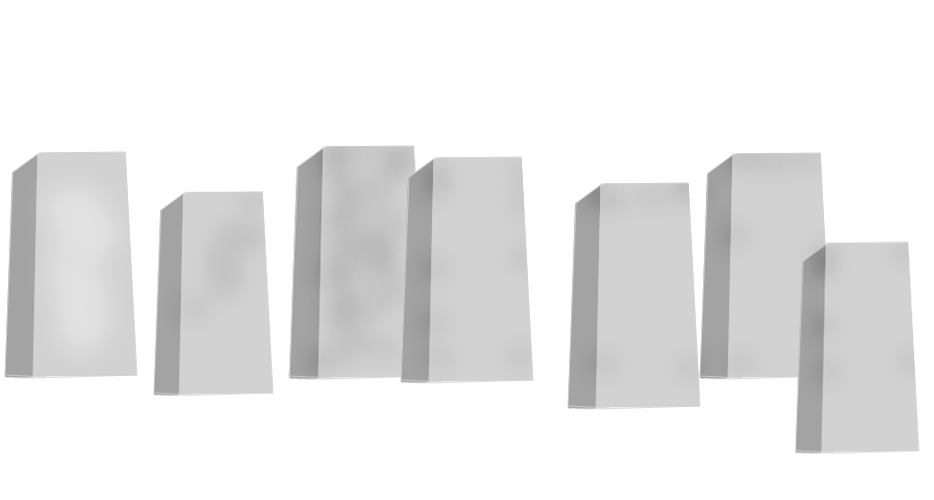
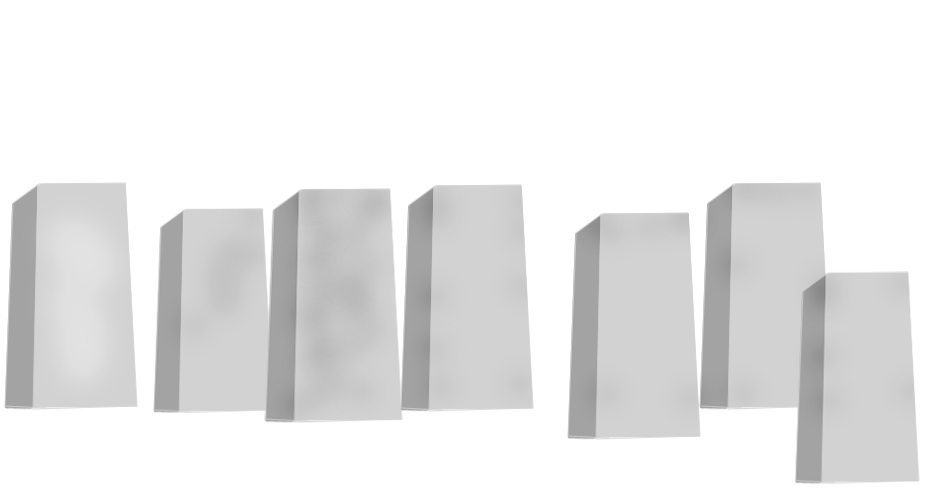
More background, particle system started

diff --git a/src/scenes/Play.js b/src/scenes/Play.js
@@ -1,6 +1,5 @@
 class Play extends Phaser.Scene{
 
-
     constructor() {
         super("playScene");
     }
@@ -14,9 +13,13 @@ class Play extends Phaser.Scene{
         this.load.image('rocket', './assets/redHeartInverted.png');
         // this.load.image('spaceship', './assets/spaceship.png');
         this.load.image('spaceship', './assets/flying-miku32.png');
-        this.load.image('starfield', './assets/sidewalk.png');
+        this.load.image('sidewalk', './assets/sidewalk.png');
         this.load.image('buildings', './assets/buildings.png');
+        this.load.image('hills', './assets/hills.png');
         this.load.image('sky', './assets/sky.png');
+        this.load.image('nightSky', './assets/starfield.png');
+        this.load.image('cross', './assets/white_cross.png');
+        this.load.image('circle', './assets/circle-8x8.png');
 
     // load spritesheet
         this.load.spritesheet('explosion', './assets/love.png', {frameWidth: 64, frameHeight: 32, startFrame: 0, endFrame: 9});
@@ -24,17 +27,34 @@ class Play extends Phaser.Scene{
 
     create(){
 
+        this.timeline = this.tweens.createTimeline();
+
+        // timeline.add({
+        //     targets: circle,
+        //     x: 600,
+        //     ease: 'Power1',
+        //     duration: 3000
+        // });
+
+        this.timeline.play();
+
+        console.log(this.timeline);
+
+        // flight paths
         this.top = 100; // original 132
         this.middle = 196;
         this.bottom = 260;
 
         // this.add.text(20, 20, "Rocket Patrol Play"); // for testing
         // place tile sprite on background
+
+        this.nightSky = this.add.tileSprite(0, 0, 934, 500, 'nightSky').setOrigin(0, 0);
         this.sky = this.add.tileSprite(0, 0, 934, 500, 'sky').setOrigin(0, 0);
+        this.hills = this.add.tileSprite(0, 0, 934, 500, 'hills').setOrigin(0, 0);
         this.buildings = this.add.tileSprite(0, 0, 934, 500, 'buildings').setOrigin(0, 0);
-        this.starfield = this.add.tileSprite(0, 0, 934, 500, 'starfield').setOrigin(0, 0);
+        this.sidewalk = this.add.tileSprite(0, 0, 934, 500, 'sidewalk').setOrigin(0, 0);
 
-
+        this.nightSky.alpha = 0;
 
 
         // this.starfield2 = this.add.tileSprite(0, 0, 640, 480, 'starfield').setOrigin(0, 0);
@@ -61,6 +81,30 @@ class Play extends Phaser.Scene{
             frames: this.anims.generateFrameNumbers('explosion', {start: 0, end: 9, first: 0}),
             frameRate: 30
         });
+
+        // Particle System
+        // got some of this from this video by Mitchell Hudson on YouTube
+        // https://youtu.be/JSrafZXuehQ
+
+        this.particles = this.add.particles('circle');
+
+        console.log(this.particles);
+        // console.log(this.);
+
+        this.particles.createEmitter({
+            // frame: 'yellow_ball',
+            speed: 100,
+            gravity: { x: 0, y: 200 },
+            scale: { start: 0.1, end: 1 },
+            tint: [0x008080, 0x008B8B, 0x00FFFF, 0xff0000],
+            // emitZone: {type: 'random', source: this.ship01, quantity: 150},
+            follow: this.ship01,
+            // follow: this.ship02,
+        });
+
+
+
+
 
         // define control keys
         keyL = this.input.keyboard.addKey(Phaser.Input.Keyboard.KeyCodes.L);
@@ -93,7 +137,7 @@ class Play extends Phaser.Scene{
         scoreConfig.fixedWidth = 0;
         this.clock = this.time.delayedCall(game.settings.gameTimer, () => {
             this.add.text(game.config.width/2, game.config.height/2, 'GAME OVER', scoreConfig).setOrigin(0.5);
-            this.add.text(game.config.width/2, game.config.height/2 + 64, '(L)ove to Restart', scoreConfig).setOrigin(0.5);
+            this.add.text(game.config.width/2, game.config.height/2 + 64, '(L)ove to Restart or ← for Menu', scoreConfig).setOrigin(0.5);
             this.gameOver = true;
         }, null, this);
 
@@ -102,12 +146,21 @@ class Play extends Phaser.Scene{
     update(){ // ideally every frame
         // check key input for restart, keyUP for one handed play
         if (this.gameOver && (Phaser.Input.Keyboard.JustDown(keyL) || Phaser.Input.Keyboard.JustDown(keyUP))){
+            this.scene.restart(this.p1Score);
+        }
+        if (this.gameOver && Phaser.Input.Keyboard.JustDown(keyLEFT)){
             this.scene.start("menuScene");
         }
+
+
         // console.log(this.time.now);
-        this.starfield.tilePositionX -= 4;
+        this.sidewalk.tilePositionX -= 4;
         this.buildings.tilePositionX -= 2;
+        this.hills.tilePositionX -= .5;
         this.sky.tilePositionX -= 1;
+        this.nightSky.tilePositionX -= 1;
+
+
 
         if (!this.gameOver){
             this.p1Rocket.update(); // update rocket
@@ -116,10 +169,21 @@ class Play extends Phaser.Scene{
             this.ship03.update();
         }
 
+            // crissCross
         if (this.time.now > 5000 && this.time.now < 10000) {
             this.crissCross(this.ship01);
             this.crissCross(this.ship02);
             this.crissCross(this.ship03);
+        }
+
+        // change the sky
+        console.log(this.time.now);
+        if (this.time.now > 10000 && this.time.now < 40000) {
+            this.nightSky.alpha = 1;
+            this.sky.alpha -= .001;
+        } else {
+            this.sky.alpha += .001;
+            this.nightSky.alpha -= .005;
         }
 
         if (this.boom){ // explosion movement
@@ -178,19 +242,19 @@ class Play extends Phaser.Scene{
 
     crissCross(ship){ // special thanks to Darcy for helping me with this one!!!
         if (ship.direction) {
-            // make ship go up
+            // make ship go up - later this could be a function
             ship.y -= .5;
             console.log(ship.y);
 
             if (ship.y <= this.top) {
-                console.log(ship.direction);
+                // console.log(ship.direction);
                 ship.direction = false;
-                console.log(ship.direction);
+                // console.log(ship.direction);
             }
             return;
 
         } else if (!ship.direction){
-            // make ship go down
+            // make ship go down - later this could be a function
             ship.y += .5;
             if (ship.y >= this.bottom) {
                 ship.direction = true;

diff --git a/src/main.js b/src/main.js
@@ -2,10 +2,22 @@
 
 // create game configuration object
 let config = {
-    type: Phaser.CANVAS,
+    // type: Phaser.CANVAS,
+    type: Phaser.WEBGL,
     width: 934,
     height: 500,
+    physics: {
+        default: 'arcade',
+        arcade: {
+            debug: true,
+            gravity: {
+                x: 0,
+                y: 0
+            }
+        }
+    },
     scene: [Menu, Play],
+
 };
 
 // create main game object
